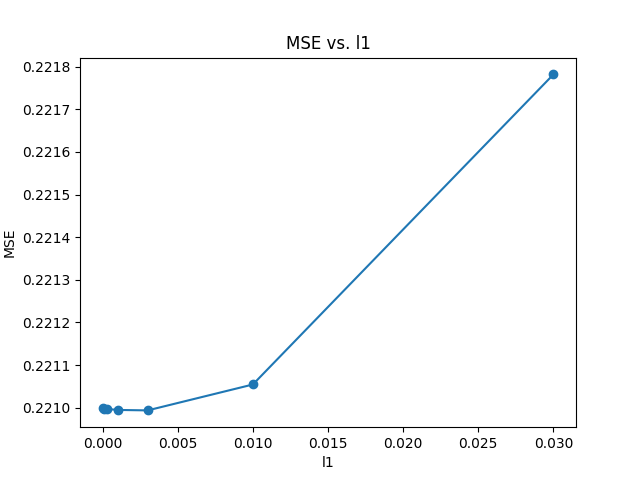
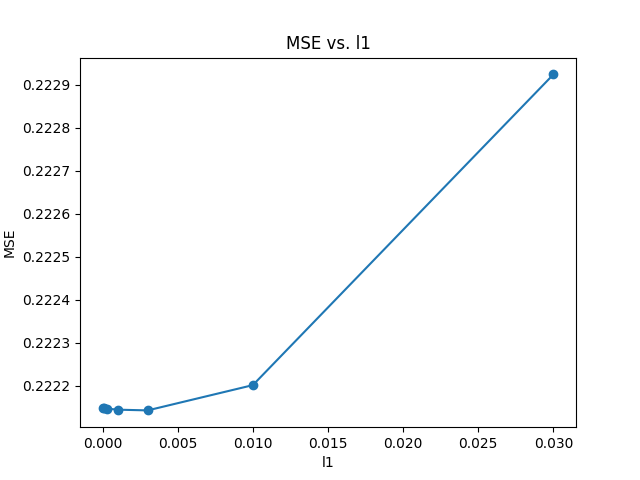
more interesting quadratic data

diff --git a/src/datasets.py b/src/datasets.py
@@ -46,7 +46,7 @@ def make_synth_reg_quadratic(n_train: int=100, n_test: int=20, noise: float=.5, 
     rng = np.random.RandomState(seed=seed)
     n = n_train + n_test
     X_all = rng.rand(n) # all between 0 and 1
-    a = 3
+    a = 10
     b = 5
     c = 2
     no_noise = a*(X_all)**2 + b*(X_all) + c
